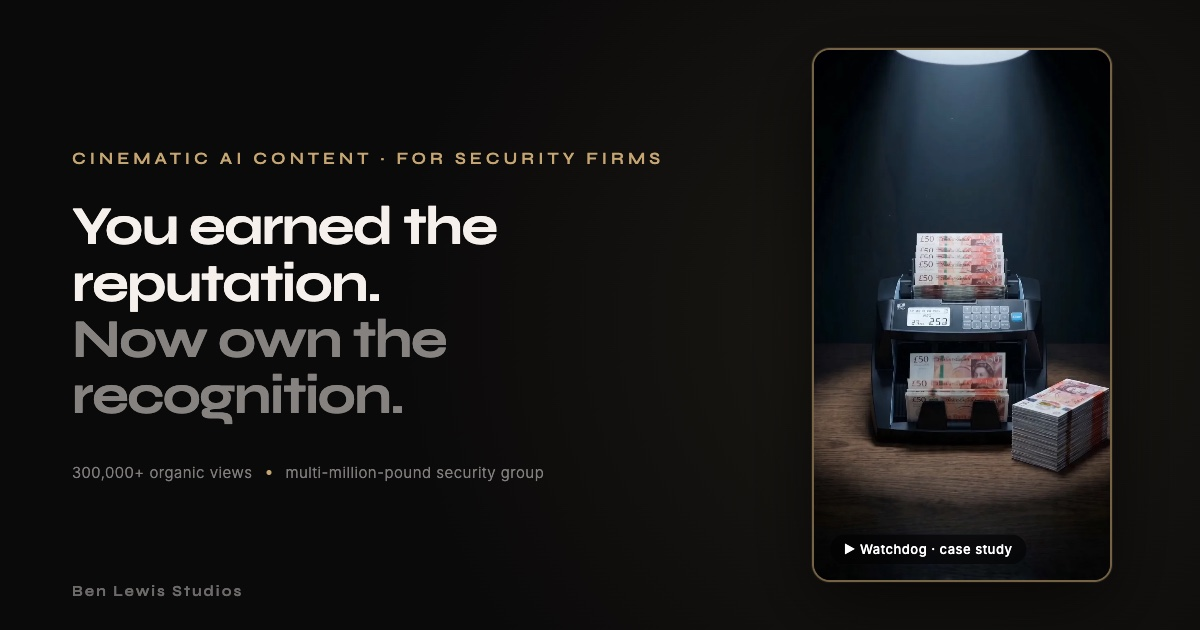
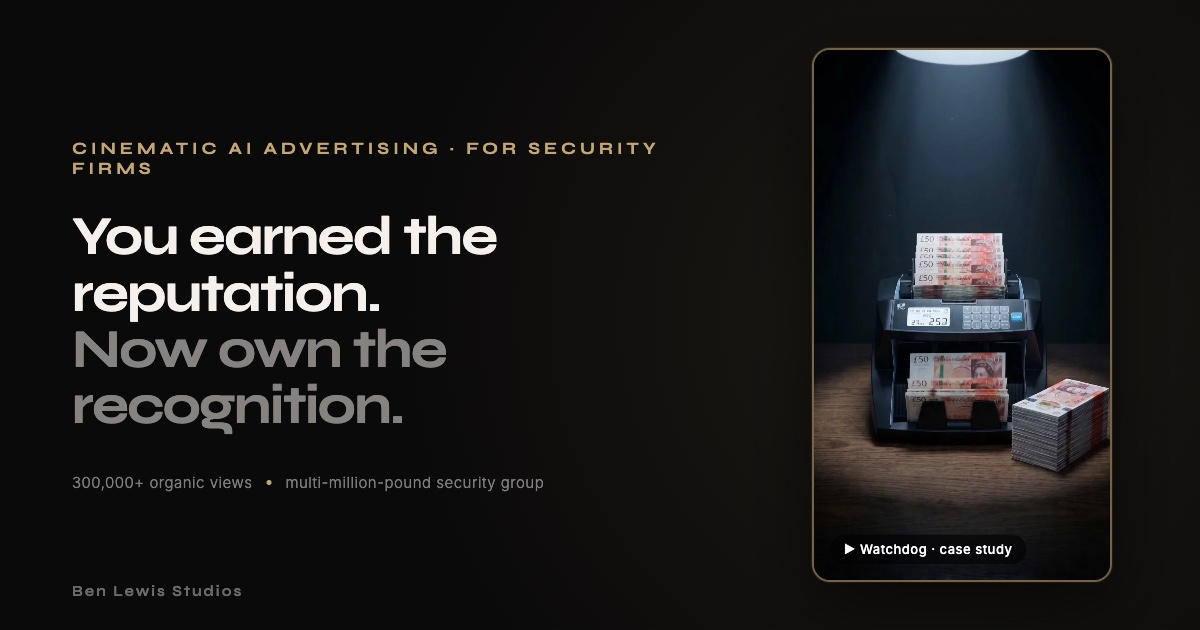
Security meta + og card: 'content' -> 'advertising'
Match the on-page eyebrow wording across the social surface: title,
og/twitter title+description, og:image:alt, Service JSON-LD, and the
re-rendered LinkedIn preview card now all say 'advertising'.

Changed region(s): [[0.0617, 0.3317, 0.4317, 0.6937], [0.0617, 0.2111, 0.555, 0.2714], [0.0617, 0.7238, 0.4625, 0.7841]]

diff --git a/security.html b/security.html
@@ -4,18 +4,18 @@
     <meta charset="UTF-8" />
     <link rel="icon" type="image/svg+xml" href="/favicon.svg" />
     <meta name="viewport" content="width=device-width, initial-scale=1.0" />
-    <meta name="description" content="Cinematic content that makes your security firm the obvious, trusted choice — so you compete on reputation, never on price. 300,000+ organic views for a multi-million-pound security group." />
-    <meta property="og:title" content="Cinematic Content for Security Firms — Ben Lewis Studios" />
-    <meta property="og:description" content="You earned the reputation. Now own the recognition. Cinematic AI content that makes your firm the obvious, trusted choice — so you compete on reputation, never on price." />
+    <meta name="description" content="Cinematic advertising that makes your security firm the obvious, trusted choice — so you compete on reputation, never on price. 300,000+ organic views for a multi-million-pound security group." />
+    <meta property="og:title" content="Cinematic Advertising for Security Firms — Ben Lewis Studios" />
+    <meta property="og:description" content="You earned the reputation. Now own the recognition. Cinematic AI advertising that makes your firm the obvious, trusted choice — so you compete on reputation, never on price." />
     <meta property="og:type" content="website" />
     <meta property="og:url" content="https://benlewisltd.com/security" />
     <meta property="og:image" content="https://benlewisltd.com/assets/security/og-security.jpg" />
     <meta property="og:image:width" content="1200" />
     <meta property="og:image:height" content="630" />
-    <meta property="og:image:alt" content="Cinematic AI content for security firms — Watchdog case study, 300,000+ organic views" />
+    <meta property="og:image:alt" content="Cinematic AI advertising for security firms — Watchdog case study, 300,000+ organic views" />
     <meta name="twitter:card" content="summary_large_image" />
-    <meta name="twitter:title" content="Cinematic Content for Security Firms — Ben Lewis Studios" />
-    <meta name="twitter:description" content="You earned the reputation. Now own the recognition. Cinematic content that makes your firm the obvious, trusted choice." />
+    <meta name="twitter:title" content="Cinematic Advertising for Security Firms — Ben Lewis Studios" />
+    <meta name="twitter:description" content="You earned the reputation. Now own the recognition. Cinematic advertising that makes your firm the obvious, trusted choice." />
     <meta name="twitter:image" content="https://benlewisltd.com/assets/security/og-security.jpg" />
     <meta name="theme-color" content="#0A0A0A" />
     <meta name="color-scheme" content="dark" />
@@ -24,7 +24,7 @@
     <link rel="preload" as="font" type="font/woff2" href="/fonts/inter-latin.woff2" crossorigin />
     <link rel="preload" as="font" type="font/woff2" href="/fonts/syne-latin.woff2" crossorigin />
     <link rel="preload" as="image" href="/assets/security/wd03-hero-poster.webp" fetchpriority="high" type="image/webp" />
-    <title>Cinematic Content for Security Firms — Ben Lewis Studios</title>
+    <title>Cinematic Advertising for Security Firms — Ben Lewis Studios</title>
     <style>
       @font-face{font-family:'Inter';font-style:normal;font-weight:300 500;font-display:swap;src:url(/fonts/inter-latin.woff2) format('woff2');unicode-range:U+0000-00FF,U+0131,U+0152-0153,U+02BB-02BC,U+02C6,U+02DA,U+02DC,U+0304,U+0308,U+0329,U+2000-206F,U+20AC,U+2122,U+2191,U+2193,U+2212,U+2215,U+FEFF,U+FFFD}
       @font-face{font-family:'Syne';font-style:normal;font-weight:600 700;font-display:swap;src:url(/fonts/syne-latin.woff2) format('woff2');unicode-range:U+0000-00FF,U+0131,U+0152-0153,U+02BB-02BC,U+02C6,U+02DA,U+02DC,U+0304,U+0308,U+0329,U+2000-206F,U+20AC,U+2122,U+2191,U+2193,U+2212,U+2215,U+FEFF,U+FFFD}
@@ -35,10 +35,10 @@
     {
       "@context": "https://schema.org",
       "@type": "Service",
-      "name": "Cinematic Content Production for Security Firms",
+      "name": "Cinematic Advertising Production for Security Firms",
       "url": "https://benlewisltd.com/security",
-      "serviceType": "Cinematic video content production",
-      "description": "Cinematic AI content that makes a security firm the obvious, trusted choice — competing on reputation, not price. 300,000+ organic views delivered for a multi-million-pound security group.",
+      "serviceType": "Cinematic video advertising production",
+      "description": "Cinematic AI advertising that makes a security firm the obvious, trusted choice — competing on reputation, not price. 300,000+ organic views delivered for a multi-million-pound security group.",
       "provider": {
         "@type": "Organization",
         "name": "Ben Lewis Studios",
